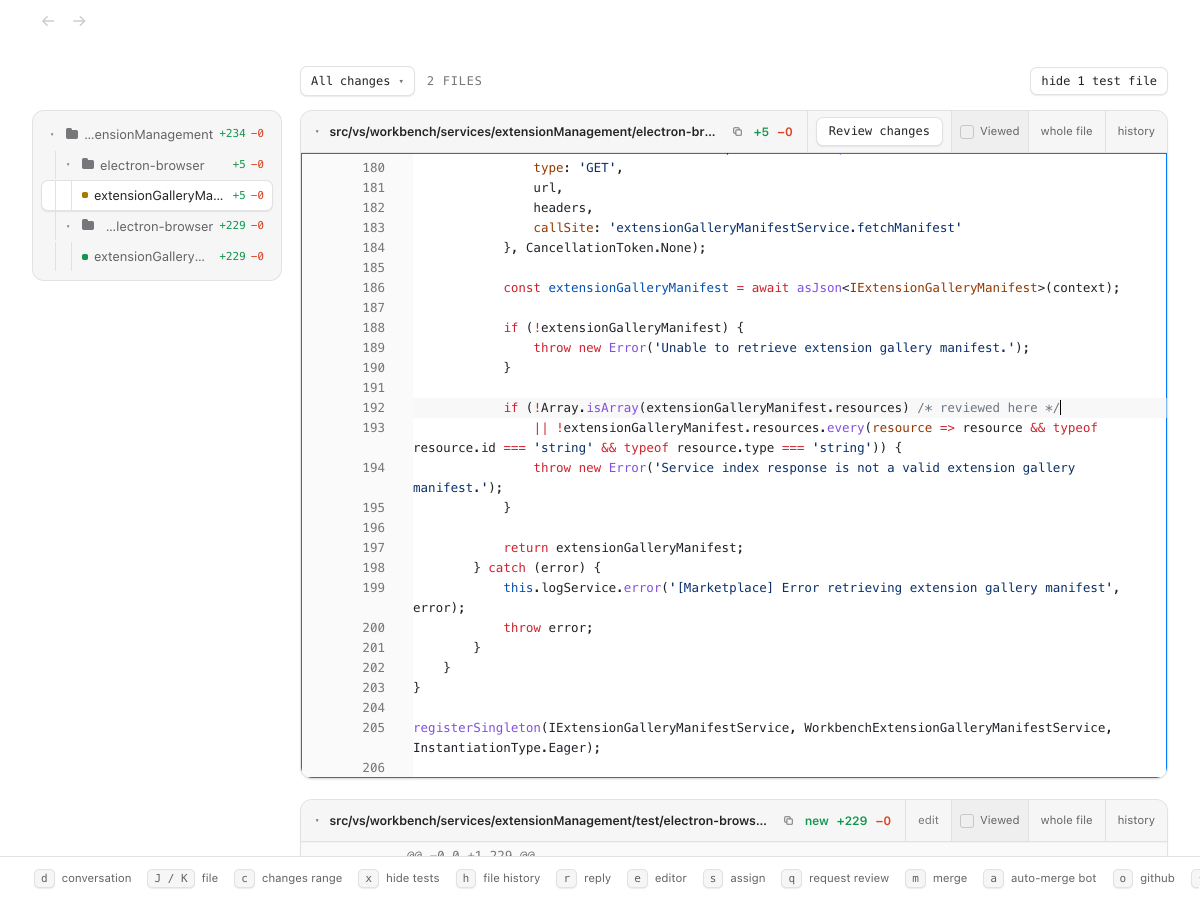
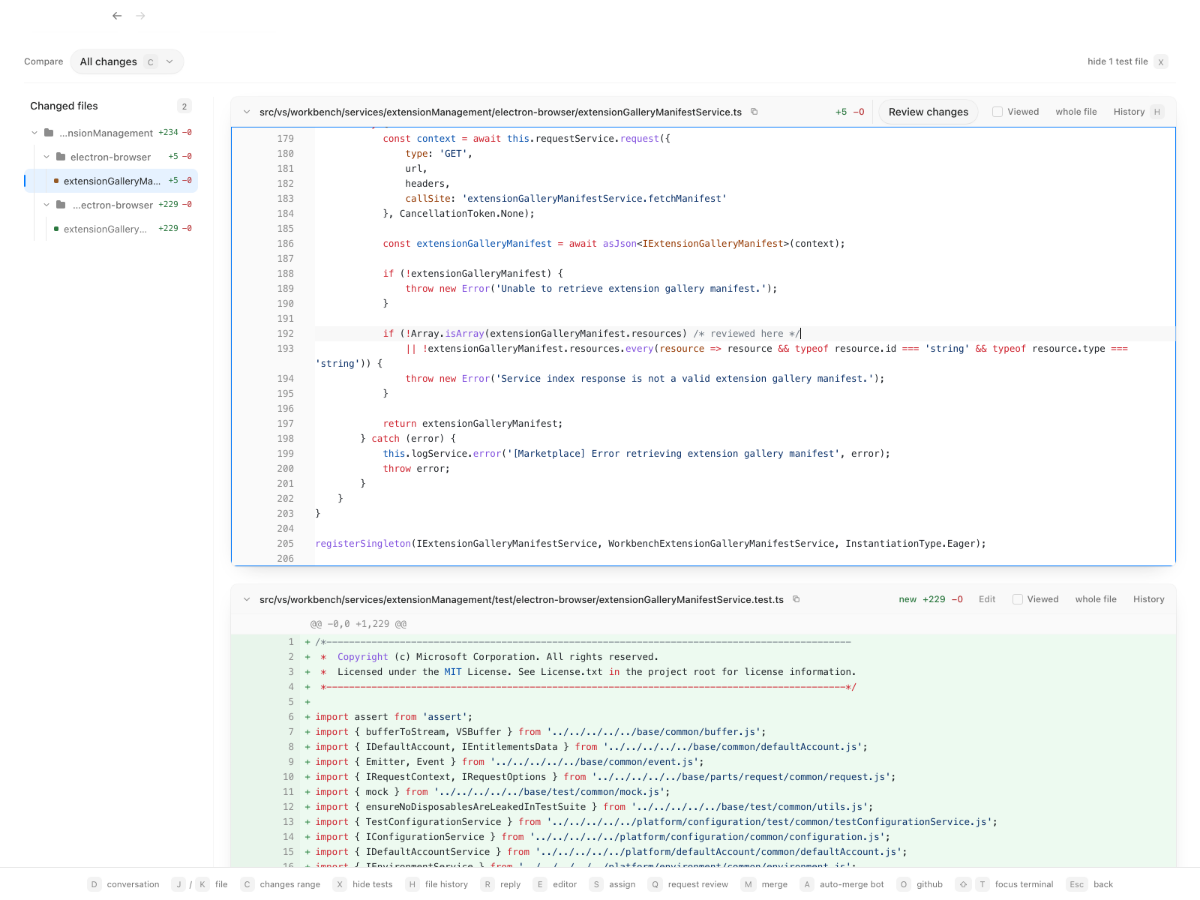
chore(website): refresh UI screenshots

diff --git a/docs/index.html b/docs/index.html
@@ -33,7 +33,7 @@
     "license": "https://github.com/theolundqvist/pr-cockpit/blob/main/LICENSE",
     "isAccessibleForFree": true,
     "offers": { "@type": "Offer", "price": "0", "priceCurrency": "USD" },
-    "screenshot": "https://theolundqvist.github.io/pr-cockpit/screenshots/landing-inbox.png",
+    "screenshot": "https://theolundqvist.github.io/pr-cockpit/screenshots/landing-inbox.png?v=bfd46ec27807",
     "description": "A keyboard-first macOS app for GitHub pull request review. Pull requests, diffs, threads, checks, and images are kept in a local SQLite cache that GitHub webhooks refresh, so reviews and coding agents read them without waiting on github.com.",
     "author": { "@type": "Person", "name": "Theodor Lundqvist", "url": "https://github.com/theolundqvist" }
   }
@@ -1238,8 +1238,8 @@
     <section class="section-rule">
       <div class="wrap section queue-layout">
         <div class="shot-shell queue-shot">
-          <button class="shot-button" type="button" data-lightbox="screenshots/landing-inbox.png?v=20260823-bare" aria-label="Open review queue screenshot">
-            <img src="screenshots/landing-inbox.png?v=20260823-bare" alt="Review queue sorting open pull requests into ready to merge, your move, and waiting lanes" width="1200" height="900" loading="lazy">
+          <button class="shot-button" type="button" data-lightbox="screenshots/landing-inbox.png?v=bfd46ec27807" aria-label="Open review queue screenshot">
+            <img src="screenshots/landing-inbox.png?v=bfd46ec27807" alt="Review queue sorting open pull requests into ready to merge, your move, and waiting lanes" width="1200" height="900" loading="lazy">
           </button>
         </div>
         <div>
@@ -1276,29 +1276,29 @@
           <div class="showcase-stage" tabindex="0" aria-label="Review action carousel">
             <div class="showcase-panel is-active" id="showcase-panel-agent" role="tabpanel" aria-labelledby="showcase-tab-agent">
               <div class="shot-shell showcase-shot">
-                <button class="shot-button" type="button" data-lightbox="screenshots/landing-agent-prompt.png?v=20260823-bare" aria-label="Open agent prompt screenshot">
-                  <img src="screenshots/landing-agent-prompt.png?v=20260823-bare" alt="Prompt an agent dialog opened with p on a pull request" width="1200" height="900" loading="lazy">
+                <button class="shot-button" type="button" data-lightbox="screenshots/landing-agent-prompt.png?v=7a7e3c1cc74f" aria-label="Open agent prompt screenshot">
+                  <img src="screenshots/landing-agent-prompt.png?v=7a7e3c1cc74f" alt="Prompt an agent dialog opened with p on a pull request" width="1200" height="900" loading="lazy">
                 </button>
               </div>
             </div>
             <div class="showcase-panel is-next" id="showcase-panel-editor" role="tabpanel" aria-labelledby="showcase-tab-editor" aria-hidden="true" inert>
               <div class="shot-shell showcase-shot">
-                <button class="shot-button" type="button" data-lightbox="screenshots/landing-editor.png?v=20260823-bare" aria-label="Open inline editor screenshot">
-                  <img src="screenshots/landing-editor.png?v=20260823-bare" alt="Full-file editor opened at a changed line of a pull request file, ready to commit back to the PR" width="1200" height="900" loading="lazy">
+                <button class="shot-button" type="button" data-lightbox="screenshots/landing-editor.png?v=eaaf87d56ad5" aria-label="Open inline editor screenshot">
+                  <img src="screenshots/landing-editor.png?v=eaaf87d56ad5" alt="Full-file editor opened at a changed line of a pull request file, ready to commit back to the PR" width="1200" height="900" loading="lazy">
                 </button>
               </div>
             </div>
             <div class="showcase-panel" id="showcase-panel-revert" role="tabpanel" aria-labelledby="showcase-tab-revert" aria-hidden="true" inert>
               <div class="shot-shell showcase-shot">
-                <button class="shot-button" type="button" data-lightbox="screenshots/landing-revert-menu.png?v=20260823-bare" aria-label="Open revert hunk context menu screenshot">
-                  <img src="screenshots/landing-revert-menu.png?v=20260823-bare" alt="Right-click context menu on a unified diff hunk offering Revert hunk" width="1200" height="900" loading="lazy">
+                <button class="shot-button" type="button" data-lightbox="screenshots/landing-revert-menu.png?v=d4c5c92223aa" aria-label="Open revert hunk context menu screenshot">
+                  <img src="screenshots/landing-revert-menu.png?v=d4c5c92223aa" alt="Right-click context menu on a unified diff hunk offering Revert hunk" width="1200" height="900" loading="lazy">
                 </button>
               </div>
             </div>
             <div class="showcase-panel is-prev" id="showcase-panel-history" role="tabpanel" aria-labelledby="showcase-tab-history" aria-hidden="true" inert>
               <div class="shot-shell showcase-shot">
-                <button class="shot-button" type="button" data-lightbox="screenshots/landing-file-history.png?v=20260823-bare" aria-label="Open file history screenshot">
-                  <img src="screenshots/landing-file-history.png?v=20260823-bare" alt="File history view listing earlier commits with the selected commit's diff" width="1200" height="900" loading="lazy">
+                <button class="shot-button" type="button" data-lightbox="screenshots/landing-file-history.png?v=c7d941dcf275" aria-label="Open file history screenshot">
+                  <img src="screenshots/landing-file-history.png?v=c7d941dcf275" alt="File history view listing earlier commits with the selected commit's diff" width="1200" height="900" loading="lazy">
                 </button>
               </div>
             </div>
